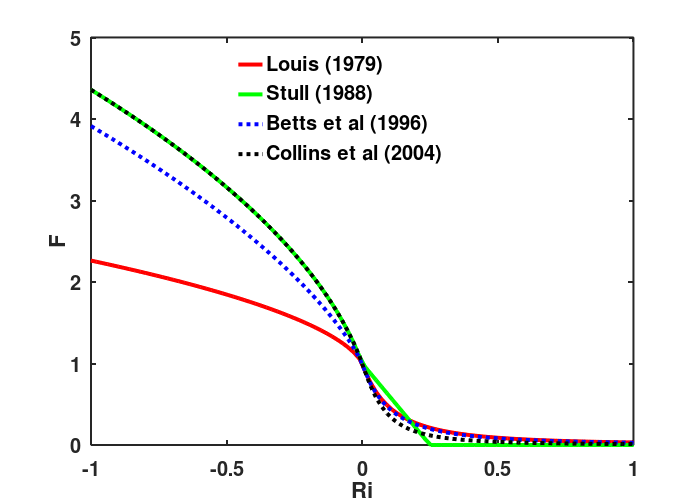
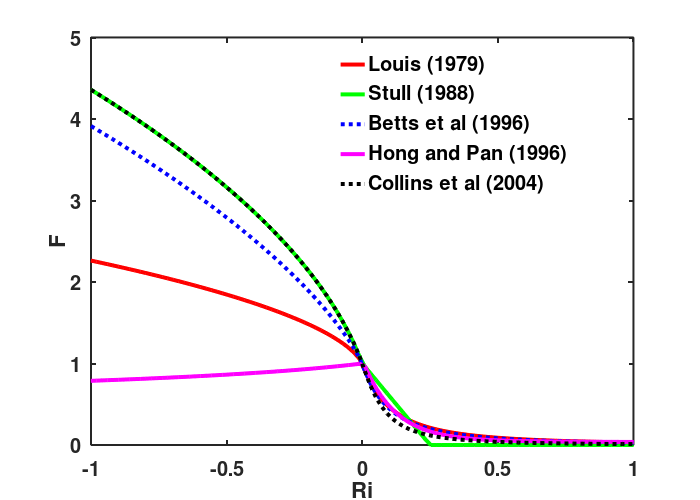
Added more on surface and mixed-layer.

diff --git a/Chapters/Ash3d_Doc_UG_Apx_VarDiff.tex b/Chapters/Ash3d_Doc_UG_Apx_VarDiff.tex
@@ -198,7 +198,7 @@ use in Eq. \ref{VarDiff_Eq_Ustar2}. If these are also not provided, $u$ and $v$ 
 pressure level are used.
 
 
-%%%%%%%%%%%%%%%%%%%%%%%%%%%%%%%%%%%%%%%%%%%%%%%%%%%%%%%%%%%%%%%%%%%%%%%%%%%%%%%
+G%%%%%%%%%%%%%%%%%%%%%%%%%%%%%%%%%%%%%%%%%%%%%%%%%%%%%%%%%%%%%%%%%%%%%%%%%%%%%%%
 \subsection{Atmospheric boundary layer height}
 
 There are many methods to determine or approximate the height of the atmospheric boundary
@@ -288,22 +288,32 @@ Since this is determined by the grid of the NWP data, the $\Delta x$ and $\Delta
 corresponding horizontal length scales of the NWP data. Ash3d used the area of the cells
 for this product. $C$ is a dimensionless scaling parameter.
 
-An alternate model which uses a slightly different ``tension'' term is the Pielke model.
+An alternate model which uses a slightly different ``tension'' term is the Pielke model \cite{Pielke1974}.
 \begin{equation}\label{VarDiff_Eq_Pielke}
 K_h = C \Delta x \Delta y \sqrt{
 \frac{1}{2}\left[ \left(\frac{\partial u}{\partial x}\right)^2 + \left(\frac{\partial v}{\partial y}\right)^2 \right]
 + \left[ \frac{\partial v}{\partial x} +\frac{\partial u}{\partial y} \right]^2}
 \end{equation}
-
+In practice, the Pielke model effectively de-emphasizes the ``tension'' term relative to
+the Smagorinski model. If the atmosphere is incompressible then $\nabla \cdot \mathbf{u}=u_{,x}+v_{,y}+w_{,z}=0$.
+If horizontal velocities are much larger that vertical velocities, then 
+$w_{,z}\approx 0$, or $u_{,x} \approx - v_{,y}$ and the Smagorinski tension is
+approximately $4 u_{,x}^2$ while the tension in the Pielke model is approximately $u_{,x}^2$.
+Both the Smagorinsky and Pielke models include the same sensitivity to simple shear, but
+the Pielke model is less sensitive to pure shear. Either of these models, as well as
+a constant $K_h$, can be specified in the Ash3d control file, along with the scaling
+parameter $C$. See section \ref{ChapAppendVarDiff_SecContrlBlock} for details. Ash3d
+applies this scheme for calculating $K_h$ for all model layers, irrespective of the
+corresponding layer of the atmosphere (surface, ABL, free-atmosphere, etc.).
 
 %%%%%%%%%%%%%%%%%%%%%%%%%%%%%%%%%%%%%%%%%%%%%%%%%%%%%%%%%%%%%%%%%%%%%%%%%%%%%%%
 %%%%%%%%%%%%%%%%%%%%%%%%%%%%%%%%%%%%%%%%%%%%%%%%%%%%%%%%%%%%%%%%%%%%%%%%%%%%%%%
 %%%%%%%%%%%%%%%%%%%%%%%%%%%%%%%%%%%%%%%%%%%%%%%%%%%%%%%%%%%%%%%%%%%%%%%%%%%%%%%
 \section{Vertical Diffusivity}\label{ChapAppendVarDiff_Sec_Kv}
-The formulation for vertical diffusivity depends on which region of the atmosphere
+The formulation for vertical diffusivity, in contrast, depends on which region of the atmosphere
 we are considering, primarily whether the point is within the atmospheric boundary
 layer (and more specifically, in either the surface layer or the mixed layer),
-or in the free atmosphere above the boundary layer.
+or in the free-atmosphere above the boundary layer.
 
 %%%%%%%%%%%%%%%%%%%%%%%%%%%%%%%%%%%%%%%%%%%%%%%%%%%%%%%%%%%%%%%%%%%%%%%%%%%%%%%
 \subsection{Free Atmosphere}
@@ -320,15 +330,17 @@ A widely used expression for the mixing length suggensted by Blackadar, $\ell_m$
 \begin{equation}\label{VarDiff_Eq_MixLen}
 \frac{1}{\ell_m} = \frac{1}{\kappa z} + \frac{1}{\lambda_m}
 \end{equation}
-which reduces $\ell_m$ near the surface from the free atmosphere mixing length, $\lambda_m$.
+which reduces $\ell_m$ near the surface from the free-atmosphere mixing length, $\lambda_m$. Typical
+values for $\lambda_m$ are 30-150 $\mathrm{m}$, which can be specified in the Ash3d control file.
 
 %\begin{equation}
 %\ell_m = \frac{\kappa z}{1+ \frac{\kappa z}{\lambda_m}}
 %\end{equation}
-The stability function, $\mathcal{F}(\mathrm{Ri})$, supresses vertical diffusion for stable and weakly
-unstable conditions, while promoting vertical diffusion in unstable conditions ($\mathrm{Ri}<0$).
+The stability function, $\mathcal{F}(\mathrm{Ri})$, supresses vertical diffusion for stable
+($\mathrm{Ri}>\mathrm{Ri}_c$)and weakly unstable ($0<\mathrm{Ri} < \mathrm{Ri}_c$) conditions,
+while promoting vertical diffusion in unstable conditions ($\mathrm{Ri}<0$).
 However, in unstable conditions, vertical mixing
-can be dominated by free convection, in which case a vertical diffusivity model is a poor approximation.
+can be dominated by free-convection, in which case a vertical diffusivity model is a poor approximation.
 
 %For stable or weakly unstable conditions, the stability function can be expressed as
 %$\mathcal{F}(\mathrm{Ri}) = (\mathrm{Ri}_c-\mathrm{Ri})/\mathrm{Ri}$ \cite{Jacobson2005}, %Jacobson Eq.8.70
@@ -338,28 +350,37 @@ There are many suggested expressions for $\mathcal{F}(\mathrm{Ri})$. An early fo
 by Louis \cite{Louis1979} and is given by:
 \begin{eqnarray}\label{VarDiff_Eq_F_Louis}
 \mathcal{F}(\mathrm{Ri}) &=& \left\{ \begin{array} {l@{\quad \quad}l}
- 1 - \frac{b \mathrm{Ri}}{1+c \sqrt{\left| \mathrm{Ri}\right|}}     &: \mathrm{if}\,\,\, \mathrm{Ri} < 0 \,\,\, \mathrm{unstable} \\
- \left[ 1+ \frac{b}{2} \, \mathrm{Ri} \right]^{-2}  &: \mathrm{if}\,\,\, \mathrm{Ri} > 0 \,\,\, \mathrm{stable}
+ 1 - \frac{b \mathrm{Ri}}{1+c \sqrt{\left| \mathrm{Ri}\right|}}  &: \mathrm{if}\,\,\, \mathrm{Ri} < 0 \,\,\, \mathrm{unstable} \\
+ \left[ 1+ \frac{b}{2} \, \mathrm{Ri} \right]^{-2}               &: \mathrm{if}\,\,\, \mathrm{Ri} > 0 \,\,\, \mathrm{stable}
 \end{array}
 \right.
 \end{eqnarray}
 with $b =$ 4.7, $c=7.4 a^2b \left( \frac{z}{z_0} \right)^{1/2}$ and $a=\kappa \left(\ln{\frac{z}{z_0}} \right)^{-1}$.
 
-A simplified form given in \cite{Jacobson2005,Stull1988} is given by:
+A simplified form given in \cite{Jacobson2005,Stull1988} which relies on a specified $\mathrm{Ri}_c$, is given by:
 \begin{eqnarray}\label{VarDiff_Eq_F_Stull}
 \mathcal{F}(\mathrm{Ri}) &=& \left\{ \begin{array} {l@{\quad \quad}l}
- 1 - \frac{b \mathrm{Ri}}{1+c \sqrt{\left| \mathrm{Ri}\right|}}     &: \mathrm{if}\,\,\, \mathrm{Ri} < 0 \,\,\, \mathrm{unstable} \\
+ \left[ 1 -18 \, \mathrm{Ri} \right]^{1/2}           &: \mathrm{if}\,\,\, \mathrm{Ri} < 0 \,\,\, \mathrm{unstable} \\
  \frac{\mathrm{Ri}_c-\mathrm{Ri}}{\mathrm{Ri}_c}     &: \mathrm{if}\,\,\, 0<\mathrm{Ri} < \mathrm{Ri}_c\,\,\, \mathrm{weakly \, unstable} \\
- 0  &: \mathrm{if}\,\,\, \mathrm{Ri} > \mathrm{Ri}_c \,\,\, \mathrm{stable}
+ 0                                                   &: \mathrm{if}\,\,\, \mathrm{Ri} > \mathrm{Ri}_c \,\,\, \mathrm{stable}
 \end{array}
 \right.
 \end{eqnarray}
 
-One proposed by \cite{Betts1996} and used with the NCEP-NCAR models is given by:
+One proposed by \cite{Betts1996} and used with the NCEP-NCAR Reanalysis model is given by:
 \begin{eqnarray}\label{VarDiff_Eq_F_Betts}
 \mathcal{F}(\mathrm{Ri}) &=& \left\{ \begin{array} {l@{\quad \quad}l}
- 1 + 8 \left( \frac{- \mathrm{Ri}}{1+1.286 \, \sqrt{\left| \mathrm{Ri}\right|}} \right)     &: \mathrm{if}\,\,\, \mathrm{Ri} < 0 \,\,\, \mathrm{unstable} \\
- \left[ 1+ 5 \, \sqrt{\left| \mathrm{Ri}\right|} \right]^{-1}  &: \mathrm{if}\,\,\, \mathrm{Ri} > 0 \,\,\, \mathrm{stable}
+ 1 + 8 \left( \frac{- \mathrm{Ri}}{1+1.286 \, \sqrt{\left| \mathrm{Ri}\right|}} \right)  &: \mathrm{if}\,\,\, \mathrm{Ri} < 0 \,\,\, \mathrm{unstable} \\
+ \left[ 1+ 5 \, \sqrt{\left| \mathrm{Ri}\right|} \right]^{-1}                            &: \mathrm{if}\,\,\, \mathrm{Ri} > 0 \,\,\, \mathrm{stable}
+\end{array}
+\right.
+\end{eqnarray}
+
+Hong and Pan \cite{Hong1996} suggested a formulation which is used in the NCEP-GFS model.
+\begin{eqnarray}\label{VarDiff_Eq_F_Hong}
+\mathcal{F}(\mathrm{Ri}) &=& \left\{ \begin{array} {l@{\quad \quad}l}
+ \left(1 -1.6 \mathrm{Ri} \right)^{-0.25}                  &: \mathrm{if}\,\,\, \mathrm{Ri} < 0 \,\,\, \mathrm{unstable} \\
+ e^{-8.5 \mathrm{Ri}} + \frac{0.15}{\mathrm{Ri} + 3}       &: \mathrm{if}\,\,\, \mathrm{Ri} > 0 \,\,\, \mathrm{stable}
 \end{array}
 \right.
 \end{eqnarray}
@@ -368,7 +389,7 @@ Lastly, Collins et al \cite{Collins2004} use the following form for the stabilit
 \begin{eqnarray}\label{VarDiff_Eq_F_Collins}
 \mathcal{F}(\mathrm{Ri}) &=& \left\{ \begin{array} {l@{\quad \quad}l}
  \left[ 1 -18 \, \mathrm{Ri} \right]^{1/2}                         &: \mathrm{if}\,\,\, \mathrm{Ri} < 0 \,\,\, \mathrm{unstable} \\
- \left[ 1+ 10 \, \mathrm{Ri} \, (1+8 \, \mathrm{Ri}) \right]^{-1}  &: \mathrm{if}\,\,\, \mathrm{Ri} > 0 \,\,\, \mathrm{unstable}
+ \left[ 1+ 10 \, \mathrm{Ri} \, (1+8 \, \mathrm{Ri}) \right]^{-1}  &: \mathrm{if}\,\,\, \mathrm{Ri} > 0 \,\,\, \mathrm{stable}
 \end{array}
 \right.
 \end{eqnarray}
@@ -379,8 +400,8 @@ These expressions are plotted in Fig. \ref{FigVarDiff_Kz_MixLen}.
 \includegraphics[angle=0,scale=0.3]{Figures/Apx_VarDiff/Kz_MixLen.png}
 \includegraphics[angle=0,scale=0.3]{Figures/Apx_VarDiff/Kz_Fc.png}\\
 \parbox{15cm}{\caption{\label{FigVarDiff_Kz_MixLen}
-Mixing Length as a function of the free-atmosphere mixing length (left). Function forms of $\mathcal{F}(\mathrm{Ri})$ implemented
-in Ash3d.
+Mixing length ($\ell_m$) as a function of height for several free-atmosphere mixing lengths (left).
+Functional forms of $\mathcal{F}(\mathrm{Ri})$ implemented in Ash3d.
 }}
 \end{figure}
 
@@ -435,8 +456,8 @@ Carl (1973)              & -1/3 & 5.0 & -15.0 \\
 \normalsize
 
 Panofsky reports that an exponent $\alpha=-1/3$ is theoretically preferable
-since $\phi$ follows $(z/L)^{-1/3}$ for large $-z/L$ (free-convection condition) Pan. p134.
-$\beta$ should be from 4.7 to 5.2 (Pan. p136.).
+since $\phi$ follows $(z/L)^{-1/3}$ for large $-z/L$ (free-convection condition) \cite[p.134]{Panofsky1984}.
+$\beta$ should be from 4.7 to 5.2 \cite[p.136]{Panofsky1984}.
 
 %%%%%%%%%%%%%%%%%%%%%%%%%%%%%%%%%%%%%%%%%%%%%%%%%%%%%%%%%%%%%%%%%%%%%%%%%%%%%%%
 \subsection{Mixed Layer}
@@ -451,10 +472,9 @@ factor.
 \begin{equation}\label{VarDiff_Eq_Kz_Mixed_Exp}
 K_z = \frac{u_{*} \kappa z}{\phi} \exp \left( -\frac{z}{h_{BL}} \right)
 \end{equation}
-Businger and Arya (1974) propose this formulation using $h_{BL}=\frac{u_*}{8 f}$, essentially
-usin an ABL from the Ekman layer (\ref{VarDiff_Eq_ABL2_1} with $c_n=0.125$).
-%In this equation, $f$ is the Coriolis parameter described above and $u_*/f$ is
-%the Ekman layer height.
+Businger and Arya (1974) propose (\cite[p.872]{Seinfeld2006})
+this formulation using $h_{BL}=\frac{u_*}{2 f}$, essentially
+using an ABL from the Ekman layer (\ref{VarDiff_Eq_ABL2_1} with $c_n=0.5$).
 This formula can be used for all heights as the exponential
 term ensures that $K_z$ from the surface layer approximation becomes vanishingly
 small above the ABL.
@@ -477,7 +497,7 @@ surface layer due to the scaling term.
 \hline
 Author & $\alpha$ & $\beta$ & $\gamma$ & p \\
 \hline
-Businger-Dyer (1971)     & -1/4 & 5.0 & -16.0 & N/A \\
+Businger-Arya (1974)     & -1/4 & 4.7 & -16.0 & N/A \\
 Troen-Mahrt (1986) \cite{Troen1986}      & -1/3 & 5.0 & -7.0  & 2 \\
 Ulke (2000)        \cite{Ulke2000}      & -1/2 & 9.2 & -13.0 & 1 \\
 \hline
@@ -487,11 +507,19 @@ Ulke (2000)        \cite{Ulke2000}      & -1/2 & 9.2 & -13.0 & 1 \\
 \end{table}
 \normalsize
 
+\begin{figure}[htbp]\vspace*{0cm}\hspace*{0cm}
+\includegraphics[angle=0,scale=0.5]{Figures/Apx_VarDiff/Kv_ML.png}
+\parbox{15cm}{\caption{\label{FigVarDiff_Kv_MixingLayer}
+Vertical diffusivity in the mixed layer using expressions in Table \ref{VarDiff_Kz_coeffABL}.
+}}
+\end{figure}
+
+
 %%%%%%%%%%%%%%%%%%%%%%%%%%%%%%%%%%%%%%%%%%%%%%%%%%%%%%%%%%%%%%%%%%%%%%%%%%%%%%%
 %%%%%%%%%%%%%%%%%%%%%%%%%%%%%%%%%%%%%%%%%%%%%%%%%%%%%%%%%%%%%%%%%%%%%%%%%%%%%%%
 %%%%%%%%%%%%%%%%%%%%%%%%%%%%%%%%%%%%%%%%%%%%%%%%%%%%%%%%%%%%%%%%%%%%%%%%%%%%%%%
 
-\section{Ash3d control file optional module block format}
+\section{Ash3d control file optional module block format}\label{ChapAppendVarDiff_SecContrlBlock}
 %%%%%%%%%%%%%%%%%%%%%%%%%%%%%%%%%%%%%%%%%%%%%%%%%%%%%%%%%%%%%%%%%%%%%%%%%%%%%%%
 
 \footnotesize

diff --git a/Figures/Scripts/VarDiff/plotKv.m b/Figures/Scripts/VarDiff/plotKv.m
@@ -1,0 +1,103 @@
+clear all;
+
+% Constants
+Ric = 0.25;
+vk  = 0.4;
+nz  = 101;
+
+% Assume a friction velocity
+ustr = 1.0;
+
+% Assume a ABL thickness
+H  = 2000.0;
+h  = 0.1*H;
+z  = linspace(0,1.25*H,nz);
+
+% Assume a Ri profile
+Rimin=-0.10;
+Risrf= 0.05;
+Rimax= 0.10;
+zs=0;
+for i=1:nz
+ if z(i)<h
+  zs = i;
+  % Linear in surface layer since Ri = z/L
+  Ri(i) = Rimin + (Risrf-Rimin)*z(i)/h;
+ elseif z(i)<H
+  Ri(i) = Risrf + (Rimax-Risrf)*(z(i)-h)/(H-h);
+ else
+  Ri(i) = Rimax;
+ end
+end
+% Get MO length
+for i=1:nz
+ if Ri(i)<0
+  L(i) = z(i)/Ri(i);
+ else
+  L(i) = (z(i)/Ri(i))*(1-5*Ri(i));
+ end
+end
+zeta = z./L;
+
+% Loop over z and calculate Kv
+for i=1:nz
+ % Scaling terms for M-L
+ sc1(i) = 1.0;
+ sc2(i) = 1.0;
+ sc3(i) = exp(-2*z(i)/H);
+ if z(i)<=H
+  sc4(i) = (1 - z(i)/H)^2;
+  sc5(i) = (1 - z(i)/H)^1;
+ else
+  sc4(i) = 0;
+  sc5(i) = 0;
+ end
+ % phi values
+ if zeta(i)<0 % unstable
+  p1=1.0;a1=4;c1=16.0;phisrf_BD(i) = p1*(1-c1*zeta(i))^(-1.0/a1);
+  p1=1.0;a1=3;c1=15.0;phisrf_Cl(i) = p1*(1-c1*zeta(i))^(-1.0/a1);
+  p1=1.0;a1=4;c1=16.0;phiml_BA(i)  = p1*(1-c1*zeta(i))^(-1.0/a1);
+  p1=1.0;a1=3;c1= 7.0;phiml_TM(i)  = p1*(1-c1*zeta(i))^(-1.0/a1);
+  p1=1.0;a1=2;c1=13.0;phiml_Ul(i)  = p1*(1-c1*zeta(i))^(-1.0/a1);
+ else % stable
+  p1=1.0 ;b1=5.0;phisrf_BD(i) = p1 + b1 * zeta(i);
+  p1=1.0 ;b1=5.0;phisrf_Cl(i) = p1 + b1 * zeta(i);
+  p1=0.74;b1=4.7;phiml_BA(i)  = p1 + b1 * zeta(i);
+  p1=1.0 ;b1=5.0;phiml_TM(i)  = p1 + b1 * zeta(i);
+  p1=1.0 ;b1=9.2;phiml_Ul(i)  = p1 + b1 * zeta(i);
+ end
+ % Diffusivity values
+ Kv1(i) = ustr*vk*z(i)/phisrf_BD(i) * sc1(i);
+ Kv2(i) = ustr*vk*z(i)/phisrf_Cl(i) * sc2(i);
+ Kv3(i) = ustr*vk*z(i)/phiml_BA(i)  * sc3(i);
+ Kv4(i) = ustr*vk*z(i)/phiml_TM(i)  * sc4(i);
+ Kv5(i) = ustr*vk*z(i)/phiml_Ul(i)  * sc5(i);
+end
+
+figure;
+subplot(1,3,1),plot(Ri,z,'b-',"linewidth",4)
+axis([1.5*Rimin 1.5*Rimax 0 1.25*H])
+xlabel('Ri')
+ylabel('Height (m)')
+subplot(1,3,2),plot(Kv3(1:nz),z(1:nz),'b-',"linewidth",4);hold on;
+subplot(1,3,2),plot(Kv4(1:nz),z(1:nz),'m-',"linewidth",4);
+subplot(1,3,2),plot(Kv5(1:nz),z(1:nz),'k-',"linewidth",4);
+subplot(1,3,2),plot(Kv1(1:zs),z(1:zs),'ro',"linewidth",2);
+subplot(1,3,2),plot(Kv2(1:zs),z(1:zs),'g+',"linewidth",2);
+hold off;
+axis([0 150 0 1.25*H])
+xlabel('K_v (m^2/s)')
+
+
+subplot(1,3,3),plot(sc3(1:nz),z(1:nz),'b-',"linewidth",4);hold on;
+subplot(1,3,3),plot(sc4(1:nz),z(1:nz),'m-',"linewidth",4);
+subplot(1,3,3),plot(sc5(1:nz),z(1:nz),'k-',"linewidth",4);
+subplot(1,3,3),plot(sc1(1:zs),z(1:zs),'ro',"linewidth",2);
+subplot(1,3,3),plot(sc2(1:zs),z(1:zs),'g+',"linewidth",2);
+legend('BA_m','TM_,','Ul_m','BD_s','Cl_s')
+axis([0 1.1 0 1.25*H])
+hold off;
+xlabel('Mixed-Layer scale factor')
+
+print -dpng -color "-S1000,500" Kv_ML.png
+

diff --git a/Figures/Scripts/VarDiff/plotFc.m b/Figures/Scripts/VarDiff/plotFc.m
@@ -53,14 +53,25 @@ for i=1:n1
   end
 end
 
+% Hong 1996
+for i=1:n1
+  if(Ri(i)<0)
+   % Unstable atmosphere
+   Fc4(i) = (1.0-1.6*Ri(i))^(-0.25); % Eq. 5
+  else
+   % Stable atmosphere
+   Fc4(i) = exp(-8.5*Ri(i)) + 0.15/(Ri(i)+3.0);  % Eq. 13
+  end
+end
+
 % Collins et al (2004)
 for i=1:n1
   if(Ri(i)<0)
    % Unstable atmosphere
-   Fc4(i) = (1-18*Ri(i))^(0.5); % Eq. 4.464
+   Fc5(i) = (1-18*Ri(i))^(0.5); % Eq. 4.464
   else
    % Stable atmosphere
-   Fc4(i) = 1/(1 + 10*Ri(i)+80*Ri(i)*Ri(i));  % Eq. 4.465
+   Fc5(i) = 1/(1 + 10*Ri(i)+80*Ri(i)*Ri(i));  % Eq. 4.465
   end
 end
 
@@ -69,7 +80,9 @@ z(iz)
 plot(Ri(:),Fc1(:,iz),'r-',"linewidth",4);hold on;
 plot(Ri(:),Fc2(:),'g-',"linewidth",4);
 plot(Ri(:),Fc3(:),'b:',"linewidth",4);
-plot(Ri(:),Fc4(:),'k:',"linewidth",4);
+plot(Ri(:),Fc4(:),'m-',"linewidth",4);
+plot(Ri(:),Fc5(:),'k:',"linewidth",4);
+
 hold off;
 xlabel('Ri',"fontweight","bold","fontsize",20)
 ylabel('F',"fontweight","bold","fontsize",20)
@@ -77,7 +90,7 @@ set(gca,"fontsize",20)
 h=get (gcf, "currentaxes");
 set(h,"fontweight","bold","linewidth",2)
 
-h2=legend('Louis (1979)','Stull (1988)','Betts et al (1996)','Collins et al (2004)','location', 'north');
+h2=legend('Louis (1979)','Stull (1988)','Betts et al (1996)','Hong and Pan (1996)','Collins et al (2004)','location', 'northeast');
 set(h2,"fontweight","bold","fontsize",20)
 set(h2,"Box","off")
 
